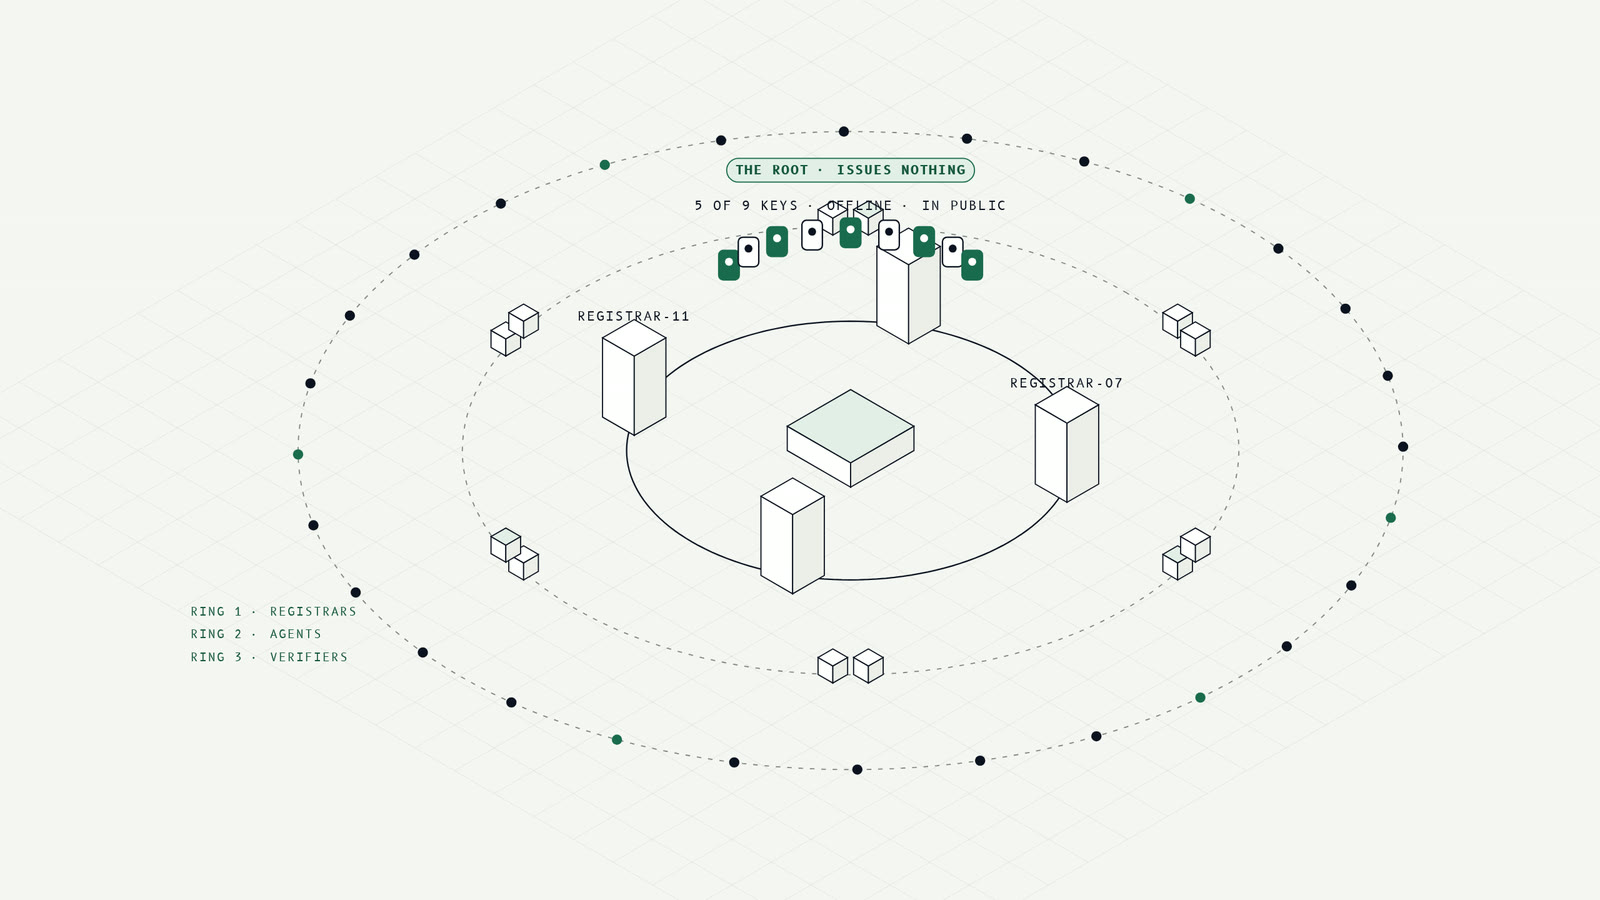
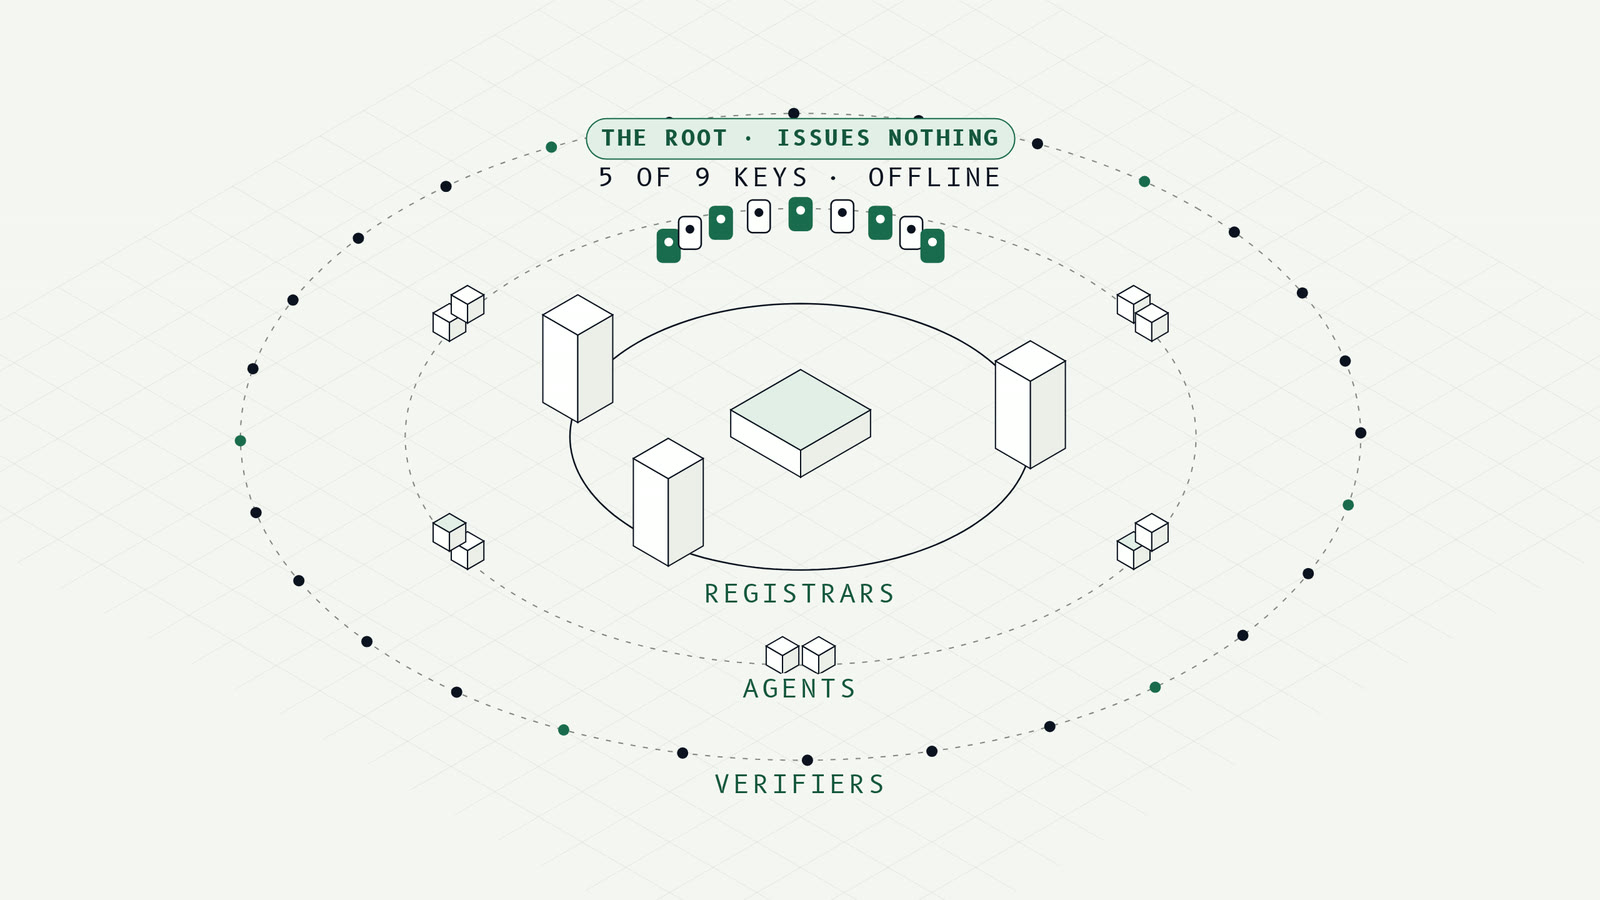
site: the headline stands in the page again; the film plays behind it, in pairs
The home hero, reworked after the owner's review (2026-11-10):

- The headline is the page's own <h1> at the hero's lower left, no longer a
  title shot inside the film. It arrives in one motion: a short signal rule
  draws in, then each word rises out of its clipped line (transform and
  opacity only; with motion off it is simply there).
- The film is cut again as eleven pairs — a shot of the world, then the
  drawing that explains it — with one half-second cross-fade everywhere and a
  fade from and to paper at the loop. The drawings play on one stage in the
  upper right, clear of the headline, the header and the Details panel; the
  world shots dissolve into paper toward the bottom.
- Phones get their own cut (each drawing fills the frame, so its labels are
  about three times larger on screen) and their own carousel clips without
  the small-type blueprint boards. The pause control leaves the film there.
- Drawings corrected: the phone's speaker slot is centred, labels are one
  size, nothing runs out of frame, stale texts are cut. The part previews,
  the root and revoke pictures and the Docs explainer are re-rendered from
  the same scenes.
- The header's call to action is quiet (an ink outline) while the film is
  under it and solid signal once the page scrolls; solid on phones.
- The Details panel starts closed where it would cover the film's stage (a
  short window) or the page's text (a tall one); the edge tab offers it.
[…]

diff --git a/site/index.html b/site/index.html
@@ -158,14 +158,16 @@ setTimeout(function(){var h=document.documentElement;if(!h.dataset.rvReady)h.cla
 <main id="main">
 <header class="g-hero" id="hero">
   <div class="g-hero__film">
-    <video class="g-hero__v" muted playsinline loop preload="metadata" poster="media/ainra-film-hero-poster.jpg?v=8" aria-describedby="g-film-shots" data-film>
-      <source data-src="media/ainra-film-hero.webm?v=8" type="video/webm">
-      <source data-src="media/ainra-film-hero.mp4?v=8" type="video/mp4">
+    <video class="g-hero__v" muted playsinline loop preload="metadata" poster="media/ainra-film-hero-poster.jpg?v=9" data-poster-m="media/ainra-film-hero-m-poster.jpg?v=9" aria-describedby="g-film-shots" data-film data-stage-bottom="0.655">
+      <source data-src="media/ainra-film-hero.webm?v=9" data-src-m="media/ainra-film-hero-m.webm?v=9" type="video/webm">
+      <source data-src="media/ainra-film-hero.mp4?v=9" data-src-m="media/ainra-film-hero-m.mp4?v=9" type="video/mp4">
     </video>
-    <p class="vh" id="g-film-shots">A silent film: licensed footage of the real world alternating with animations made for it — an agent handed a task shows its passport; agents crossing a city are each checked; the root with three rings and nine keys; a passport valid only once logged; running copies with short-lived keys; requests checked at a verifier; one revoked bit refused everywhere it is checked; a check with no signal; one line that installs the skills.</p>
+    <p class="vh" id="g-film-shots">A silent film in eleven pairs: a shot of the real world, then the drawing that explains it — hands on a phone, then an agent handed a task shows its passport; a city crossing, then agents each checked as they pass; a dish array, then the root with three rings and nine keys; a clean-room machine, then a passport valid only once logged; capsules on a line, then running copies with short-lived keys; a motorway interchange, then requests checked at a verifier; a warehouse aisle, then one revoked bit refused by every verifier; a drone in the sky, then a check with no signal; wind turbines, then agents presenting to verifiers peer to peer; hands at a keyboard, then one line that installs the skills; a field, then the closing words: every check runs on your machine.</p>
   </div>
   <div class="g-hero__scrim" aria-hidden="true"></div>
-  <h1 class="vh" id="g-h1">A passport for every AI agent.</h1>
+  <div class="g-hero__plate">
+    <h1 class="display" id="g-h1">A passport for<br>every AI agent.</h1>
+  </div>
   <button class="g-hero__pause" type="button" aria-pressed="false" data-film-toggle><svg viewBox="0 0 20 20" aria-hidden="true"><path class="i-pause" d="M6 4h3v12H6zM11 4h3v12h-3z"/><path class="i-play" d="M6 4l10 6-10 6z"/></svg><span class="film__lbl">Pause</span></button>
 </header>
 <aside class="g-side" id="gSide" aria-label="About this standard" data-side>
@@ -204,13 +206,13 @@ setTimeout(function(){var h=document.documentElement;if(!h.dataset.rvReady)h.cla
       </div>
       <div class="g-car" data-car aria-roledescription="carousel"><div class="g-car__track" data-car-track></div></div>
       <ol class="vh" data-tab-data>
-        <li data-k="Delegate" data-t="Your agent shows its passport before it pays" data-href="verify.html#try" data-src="media/g/delegate.mp4?v=6"></li>
-        <li data-k="Issue" data-t="A passport is valid only once it is logged" data-href="docs.html#verify" data-src="media/g/issue.mp4?v=6"></li>
-        <li data-k="Verify" data-t="Every request checked on the verifier's own machine" data-href="verify.html#try" data-src="media/g/gate.mp4?v=6" data-bp="5.9"></li>
-        <li data-k="Revoke" data-t="One bit set, and every verifier that checks refuses" data-href="docs.html#verify" data-src="media/g/revoke.mp4?v=6" data-bp="3.9"></li>
-        <li data-k="Running copies" data-t="Each copy carries its own short-lived key" data-href="docs.html#install" data-src="media/g/copies.mp4?v=6"></li>
-        <li data-k="Offline" data-t="No signal, and the check still runs" data-href="https://github.com/JacobJandon/ainra/blob/main/docs/drills/REGISTRAR-DARK.md" data-src="media/g/offline.mp4?v=6"></li>
-        <li data-k="Peer to peer" data-t="Agents present to verifiers; the root is not on the path" data-href="landscape.html" data-src="media/g/network.mp4?v=6" data-bp="3.9"></li>
+        <li data-k="Delegate" data-t="Your agent shows its passport before it pays" data-href="verify.html#try" data-src="media/g/delegate.mp4?v=7" data-src-m="media/g/delegate-m.mp4?v=1"></li>
+        <li data-k="Issue" data-t="A passport is valid only once it is logged" data-href="docs.html#verify" data-src="media/g/issue.mp4?v=7" data-src-m="media/g/issue-m.mp4?v=1"></li>
+        <li data-k="Verify" data-t="Every request checked on the verifier's own machine" data-href="verify.html#try" data-src="media/g/gate.mp4?v=7" data-src-m="media/g/gate-m.mp4?v=1" data-bp="5.9"></li>
+        <li data-k="Revoke" data-t="One bit set, and every verifier that checks refuses" data-href="docs.html#verify" data-src="media/g/revoke.mp4?v=7" data-src-m="media/g/revoke-m.mp4?v=1" data-bp="3.9"></li>
+        <li data-k="Running copies" data-t="Each copy carries its own short-lived key" data-href="docs.html#install" data-src="media/g/copies.mp4?v=7" data-src-m="media/g/copies-m.mp4?v=1"></li>
+        <li data-k="Offline" data-t="No signal, and the check still runs" data-href="https://github.com/JacobJandon/ainra/blob/main/docs/drills/REGISTRAR-DARK.md" data-src="media/g/offline.mp4?v=7" data-src-m="media/g/offline-m.mp4?v=1"></li>
+        <li data-k="Peer to peer" data-t="Agents present to verifiers; the root is not on the path" data-href="landscape.html" data-src="media/g/network.mp4?v=7" data-src-m="media/g/network-m.mp4?v=1" data-bp="3.9"></li>
       </ol>
     </div>
   </div>
@@ -225,25 +227,25 @@ setTimeout(function(){var h=document.documentElement;if(!h.dataset.rvReady)h.cla
   <div class="wrap">
     <div class="g-list__head"><h2 class="g-list__label" id="g-parts">What AINRA is made of</h2></div>
     <ol class="g-rows">
-      <li><a class="g-row" href="docs.html#standard" data-preview="media/g/part-standard.jpg?v=2" data-preview-video="media/g/part-standard.mp4?v=2"><span class="g-row__name">The Standard</span><span class="g-row__d">Defines one passport, and how anyone checks it.</span><span class="g-row__i">/0.1</span></a></li>
-      <li><a class="g-row" href="verify.html#try" data-preview="media/g/part-verifier.jpg?v=2" data-preview-video="media/g/part-verifier.mp4?v=2"><span class="g-row__name">The verifier</span><span class="g-row__d">Checks a passport on your own machine — offline, fail-closed.</span><span class="g-row__i">/0.2</span></a></li>
-      <li><a class="g-row" href="get.html" data-preview="media/g/part-registrars.jpg?v=2" data-preview-video="media/g/part-registrars.mp4?v=2"><span class="g-row__name">Registrars</span><span class="g-row__d">Issue passports under the same published rules, and log each one first.</span><span class="g-row__i">/0.3</span></a></li>
-      <li><a class="g-row" href="docs.html#verify" data-preview="media/g/part-revocation.jpg?v=2" data-preview-video="media/g/part-revocation.mp4?v=2"><span class="g-row__name">Revocation</span><span class="g-row__d">Sets one bit in a signed list; every verifier that checks refuses.</span><span class="g-row__i">/0.4</span></a></li>
-      <li><a class="g-row" href="docs.html#install" data-preview="media/g/part-copies.jpg?v=2" data-preview-video="media/g/part-copies.mp4?v=2"><span class="g-row__name">Running copies</span><span class="g-row__d">Give every instance its own short-lived key.</span><span class="g-row__i">/0.5</span></a></li>
+      <li><a class="g-row" href="docs.html#standard" data-preview="media/g/part-standard.jpg?v=3" data-preview-video="media/g/part-standard.mp4?v=3"><span class="g-row__name">The Standard</span><span class="g-row__d">Defines one passport, and how anyone checks it.</span><span class="g-row__i">/0.1</span></a></li>
+      <li><a class="g-row" href="verify.html#try" data-preview="media/g/part-verifier.jpg?v=3" data-preview-video="media/g/part-verifier.mp4?v=3"><span class="g-row__name">The verifier</span><span class="g-row__d">Checks a passport on your own machine — offline, fail-closed.</span><span class="g-row__i">/0.2</span></a></li>
+      <li><a class="g-row" href="get.html" data-preview="media/g/part-registrars.jpg?v=3" data-preview-video="media/g/part-registrars.mp4?v=3"><span class="g-row__name">Registrars</span><span class="g-row__d">Issue passports under the same published rules, and log each one first.</span><span class="g-row__i">/0.3</span></a></li>
+      <li><a class="g-row" href="docs.html#verify" data-preview="media/g/part-revocation.jpg?v=3" data-preview-video="media/g/part-revocation.mp4?v=3"><span class="g-row__name">Revocation</span><span class="g-row__d">Sets one bit in a signed list; every verifier that checks refuses.</span><span class="g-row__i">/0.4</span></a></li>
+      <li><a class="g-row" href="docs.html#install" data-preview="media/g/part-copies.jpg?v=3" data-preview-video="media/g/part-copies.mp4?v=3"><span class="g-row__name">Running copies</span><span class="g-row__d">Give every instance its own short-lived key.</span><span class="g-row__i">/0.5</span></a></li>
     </ol>
-    <figure class="g-preview" aria-hidden="true"><img alt="" src="media/g/part-standard.jpg?v=2" width="1280" height="720"><video muted playsinline loop preload="none"></video></figure>
+    <figure class="g-preview" aria-hidden="true"><img alt="" src="media/g/part-standard.jpg?v=3" width="1280" height="720"><video muted playsinline loop preload="none"></video></figure>
   </div>
 </section>
 
 <section class="g-grey g-duo" aria-label="Who runs it">
   <div class="wrap">
     <div class="g-duo__row">
-      <figure class="g-duo__img"><img src="media/g/root.jpg?v=4" alt="The root at the centre of three rings: registrars, agents and verifiers; nine keys above it, five lit." width="1280" height="720" loading="lazy"></figure>
+      <figure class="g-duo__img"><img src="media/g/root.jpg?v=5" alt="The root at the centre of three rings: registrars, agents and verifiers; nine keys above it, five lit." width="1280" height="720" loading="lazy"></figure>
       <div class="g-duo__card"><p>No one company runs the root. Registrars, custodians and witnesses share it, under one published rulebook.</p><a class="btn btn-ghost" href="foundation.html#access">Join the founding table</a></div>
     </div>
     <div class="g-duo__row g-duo__row--flip">
       <div class="g-duo__card"><p>Everything here is public: the Standard, the code, every decision, and the two numbers that are still zero.</p><a class="btn btn-ghost" href="https://github.com/JacobJandon/ainra">Read the source</a></div>
-      <figure class="g-duo__img"><img src="media/g/revoke.jpg?v=4" alt="A signed status list with one bit set to revoked, and six verifiers each refusing." width="1280" height="720" loading="lazy"></figure>
+      <figure class="g-duo__img"><img src="media/g/revoke.jpg?v=5" alt="A signed status list with one bit set to revoked, and six verifiers each refusing." width="1280" height="720" loading="lazy"></figure>
     </div>
   </div>
 </section>

diff --git a/site/css/g.css b/site/css/g.css
@@ -687,3 +687,54 @@ nav:not([class]) .nav-r .g-menubtn,nav:not([class]) .nav-r .g-sq{min-width:40px;
 .g-car__card.is-bp .g-tabs__label{opacity:0;transform:translateY(-10px);pointer-events:none}
 /* phones: the details panel is dropped too — the page below says the same, and on a small screen it covers it */
 @media (max-width:800px){.g-side{display:none}}
+
+/* ── G, seventh pass (2026-11-10, owner: "the headline static at the lower left of the hero while the video plays
+   behind it"): the headline leaves the film and stands in the page again, ink on the film's own paper. The film's
+   drawings play on one stage in the upper right (film/cut2.py), clear of the headline, the header and the Details
+   panel; its world shots dissolve into paper toward the bottom, so the words read over any of them. The film is
+   anchored a little right of centre: on a narrower window the stage stays whole and the crop falls on the left. ── */
+.g-hero__v{object-position:85% 50%}
+.g-hero__plate{display:block;position:absolute;left:clamp(16px,3vw,48px);bottom:clamp(48px,11vh,128px);max-width:none;background:transparent;border:0;border-radius:0;padding:0;z-index:2}
+.g-hero h1.display{font-size:clamp(44px,5.2vw,104px);line-height:.96;letter-spacing:-.04em;font-weight:500;margin:0;max-width:none;color:var(--ink)}
+/* the words rise out of a clipped box; at this tight leading the box needs room for the descenders (g, p) */
+.g-hero h1.display .gw{padding-bottom:.2em;margin-bottom:-.2em}
+.rv .g-hero.is-in .g-hero__plate{clip-path:none}   /* the first pass's reveal still boxed the plate, and cut the g of "agent" */
+/* how the headline arrives (2026-11-10, owner: "a better animation, smooth"): a short signal rule draws in above it,
+   then each word rises out of its own clipped line, tilting level and clearing as it lands, a beat after the word
+   before — one long ease, transform and opacity only, so it stays on the compositor. With motion off (no .rv) the
+   headline and the rule are simply there. */
+.g-hero__plate::before{content:"";display:block;width:clamp(40px,4.2vw,72px);height:2px;background:var(--signal,#2F5BFF);margin:0 0 clamp(14px,1.6vw,26px) .06em;transform-origin:0 50%}
+.rv .g-hero__plate::before{transform:scaleX(0);transition:transform .9s cubic-bezier(.16,1,.3,1) .05s}
+.rv .g-hero.is-in .g-hero__plate::before{transform:none}
+.rv .g-hero h1.display .gw > span{transform:translate3d(0,115%,0) rotate(6deg);transform-origin:0 100%;opacity:0;
+  transition:transform 1.2s cubic-bezier(.16,1,.3,1) calc(var(--i) * 80ms + .18s),opacity .55s ease-out calc(var(--i) * 80ms + .18s)}
+.rv .g-hero.is-in h1.display .gw > span{transform:none;opacity:1}
+/* the hero's last sliver is paper, so it meets the page below without an edge */
+.g-hero__scrim{display:block;position:absolute;inset:0;pointer-events:none;background:linear-gradient(180deg,rgba(245,246,243,0) 86%,var(--paper) 100%)}
+/* the Details panel, a little tighter beside this hero, so on a full-size window it ends below the film's stage; where
+   it still would not (a short window), g.mjs starts it closed and the edge tab offers it */
+.g-hero + .g-side{padding:14px 16px 12px}
+.g-hero + .g-side .g-side__head{margin-bottom:8px}
+.g-hero + .g-side ul{gap:10px}
+/* a short, wide window crops the film top and bottom: take most of it from the bottom, so the stage stays below the header */
+@media (max-height:720px) and (min-aspect-ratio:16/9){.g-hero__v{object-position:85% 20%}}
+/* a phone, or any window taller than it is wide: the film is a strip on top (its phone cut: each drawing fills the
+   frame), and the headline sits under it on paper */
+@media (max-width:700px),(max-aspect-ratio:5/4){
+  .g-hero{height:auto;min-height:0;display:flex;flex-direction:column}
+  .g-hero__film{position:relative;inset:auto;width:100%;height:auto;aspect-ratio:16/9}
+  .g-hero__v{object-position:50% 50%}
+  .g-hero__scrim{display:none}
+  .g-hero__plate{position:relative;left:auto;bottom:auto;padding:22px 16px 4px;background:var(--paper)}
+  .g-hero__plate::before{margin-bottom:14px}
+  .g-hero h1.display{font-size:clamp(40px,11vw,64px)}
+  /* the phone cut's drawings fill the frame, so the pause control leaves the film: a round button beside the headline */
+  .g-hero__pause{top:calc(56.25vw + 20px);bottom:auto;right:16px;width:40px;padding:0;justify-content:center;z-index:3}
+  .g-hero__pause .film__lbl{position:absolute;width:1px;height:1px;overflow:hidden;clip-path:inset(50%);white-space:nowrap}
+}
+/* a tall window wider than a phone (a tablet held upright): the header still floats, so the strip starts below it */
+@media (min-width:701px) and (max-aspect-ratio:5/4){
+  .g-hero{padding-top:102px}
+  .g-hero__pause{top:calc(56.25vw + 122px)}
+}
+

diff --git a/site/css/signal.css b/site/css/signal.css
@@ -19,9 +19,10 @@
 :focus-visible{outline:2px solid var(--signal);outline-offset:2px}
 
 /* ── the header's call to action ──────────────────────────────────────────────────────────────────────────────────
-   over the hero film it stays exactly as it was (transparent, a light outline, paper text) so the film stays the
-   picture; the moment the page scrolls onto paper it turns solid signal; on phones, where it is the bottom bar, it is
-   solid signal throughout. Every state keeps the wipe from the left on hover. */
+   over the hero film it stays quiet (transparent, an outline, no fill) so the film stays the picture; the moment the
+   page scrolls onto paper it turns solid signal; on phones, where it is the bottom bar, it is solid signal
+   throughout. Every state keeps the wipe from the left on hover. The film is light now (2026-11-10), so the quiet
+   state is ink on paper (html.nav-on-hero); the paper-on-dark state (html.nav-on-dark) stays for a dark hero. */
 nav:not([class]) .nav-r > .btn:first-child{background:var(--signal);border-color:var(--signal);color:#fff;
   transition:background-color var(--t-fast,.2s) ease,border-color var(--t-fast,.2s) ease,color var(--t-fast,.2s) ease}
 nav:not([class]) .nav-r > .btn:first-child::before{background:var(--signal-ink)}
@@ -32,8 +33,13 @@ html.g-search-open nav:not([class]) .nav-r > .btn:first-child{color:var(--paper)
 html.nav-on-dark nav:not([class]) .nav-r > .btn:first-child::before{background:var(--signal)}
 html.nav-on-dark nav:not([class]) .nav-r > .btn:first-child:hover,
 html.nav-on-dark nav:not([class]) .nav-r > .btn:first-child:focus-visible{color:#fff;border-color:var(--signal)}
+html.nav-on-hero nav:not([class]) .nav-r > .btn:first-child{color:var(--ink);border-color:var(--ink);background:transparent}
+html.nav-on-hero nav:not([class]) .nav-r > .btn:first-child::before{background:var(--signal)}
+html.nav-on-hero nav:not([class]) .nav-r > .btn:first-child:hover,
+html.nav-on-hero nav:not([class]) .nav-r > .btn:first-child:focus-visible{color:#fff;border-color:var(--signal)}
 @media (max-width:800px){
   nav:not([class]) .nav-r > .btn:first-child,
+  html.nav-on-hero nav:not([class]) .nav-r > .btn:first-child,
   html.nav-on-dark nav:not([class]) .nav-r > .btn:first-child{background:var(--signal);border-color:var(--signal);color:#fff}
   nav:not([class]) .nav-r > .btn:first-child::before{background:var(--signal-ink)}
 }

diff --git a/site/docs.html b/site/docs.html
@@ -308,8 +308,8 @@ setTimeout(function(){var h=document.documentElement;if(!h.dataset.rvReady)h.cla
         <div class="split"><h2 class="split__full title" id="introduction" data-was-h1>Every check runs on your machine.</h2></div></div>
     <p class="lede">AINRA gives every AI agent a passport it can prove: who it is, who stands behind it, what it may do, and whether it is still trusted — verifiable offline, fail-closed, with the root switched off. These docs take you from zero to a verified passport in about a minute per page.</p>
     <figure class="docs-film" id="how-it-works">
-      <video controls playsinline preload="none" poster="media/ainra-explainer-poster.jpg" width="1920" height="1080" aria-describedby="how-it-works-cap">
-        <source src="media/ainra-explainer.mp4?v=1" type="video/mp4">
+      <video controls playsinline preload="none" poster="media/ainra-explainer-poster.jpg?v=2" width="1920" height="1080" aria-describedby="how-it-works-cap">
+        <source src="media/ainra-explainer.mp4?v=2" type="video/mp4">
       </video>
       <figcaption id="how-it-works-cap"><b>How AINRA works</b>, in three minutes and eleven short chapters: the passport, registrars and the public log, the root that issues nothing, the check at the gate, running copies, revocation, offline checks, peer to peer, and how anyone keeps the root honest. No sound; every picture is drawn from the project's own sources. Today it runs as a test network.</figcaption>
     </figure>
